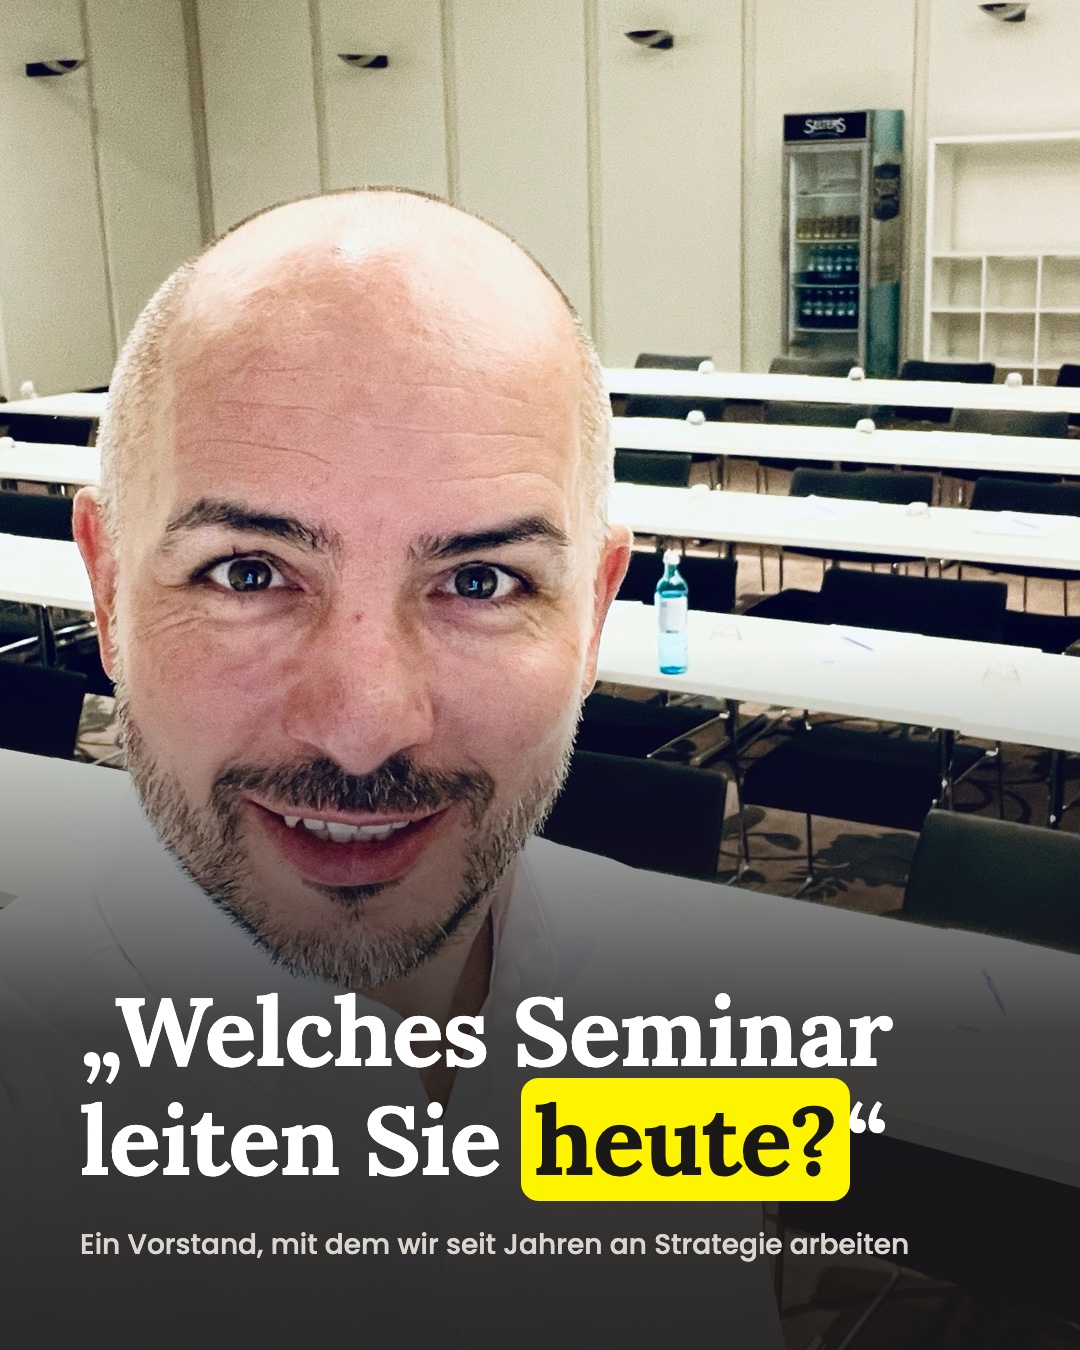
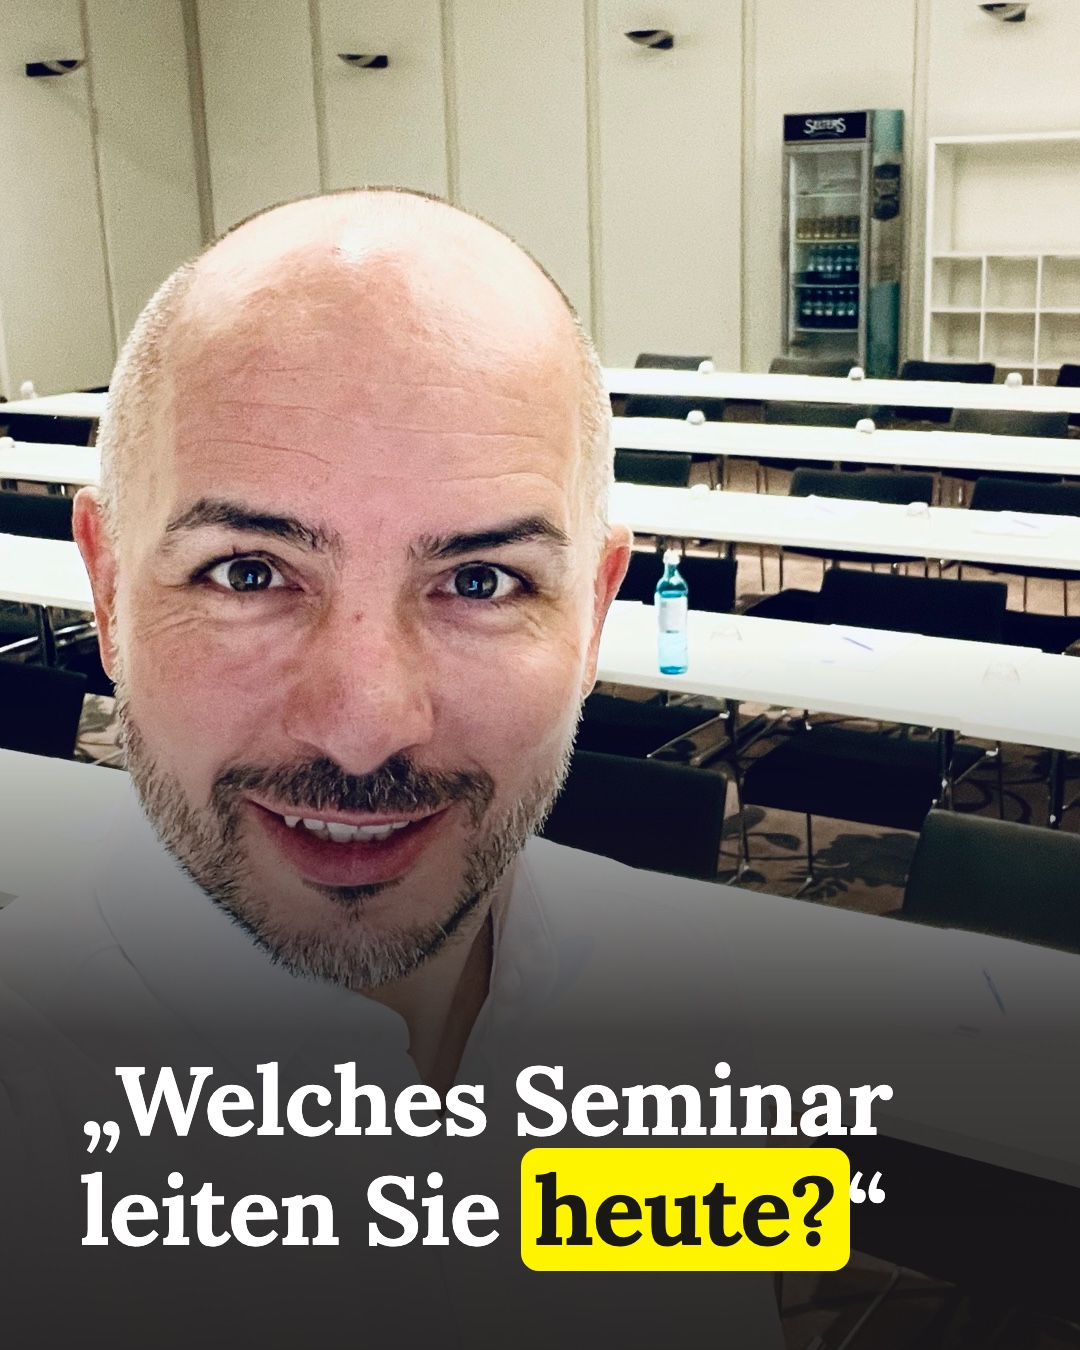
Posting 09.11.: Subheadline im Bild gelöscht

Changed region(s): [[0.0611, 0.7156, 0.8556, 0.9644]]

diff --git a/werkzeuge/medienkonzept/postings-vorlage.html b/werkzeuge/medienkonzept/postings-vorlage.html
@@ -941,7 +941,7 @@ html, body { width:1080px; background:#fff; }
     <p style="padding-bottom:14px;font:700 60px/1.12 Lora,Georgia,serif;color:#fff">konkrete Highlights gefunden.</p></div>
   <p class="namezeile">Daniel Ströbel</p></section>
 
-<section class="p vollbild" id="rp30"><img src="/assets/projekte/medienkonzept/foto-seminar-selfie.jpg" alt="" style="object-position:32% 50%;"><div class="verlauf" style="height:52%"></div><div class="unten"><p class="satz" style="font-size:96px">„Welches Seminar leiten Sie <span class="hl" style="color:#1a1817">heute?</span>“</p><p class="wer">Ein Vorstand, mit dem wir seit Jahren an Strategie arbeiten</p></div></section>
+<section class="p vollbild" id="rp30"><img src="/assets/projekte/medienkonzept/foto-seminar-selfie.jpg" alt="" style="object-position:32% 50%;"><div class="verlauf" style="height:52%"></div><div class="unten"><p class="satz" style="font-size:96px">„Welches Seminar leiten Sie <span class="hl" style="color:#1a1817">heute?</span>“</p></div></section>
 
 <section class="p" id="rp31" style="background:#e9e7e3;padding:70px 56px 0">
 <div style="border-radius:22px;background:#fff;box-shadow:0 24px 60px rgba(0,0,0,.12);overflow:hidden">

diff --git a/werkzeuge/medienkonzept/kw46_47_bilder.py b/werkzeuge/medienkonzept/kw46_47_bilder.py
@@ -121,7 +121,7 @@ def sektionen(NAME, vb, SYS):
 
     return [
         foto("rp30", "foto-seminar-selfie.jpg", "32% 50%", "„Welches Seminar leiten Sie <span class=\"hl\" style=\"color:#1a1817\">heute?</span>“",
-             "Ein Vorstand, mit dem wir seit Jahren an Strategie arbeiten", 96),
+             "", 96),
         rp31, rp32,
         foto("rp33", "foto-skizze.jpg", "50% 35%", "„Hat dein Papa wieder einen <span class=\"hl\" style=\"color:#1a1817\">coolen&nbsp;Trick?</span>“",
              "Die Freundinnen meiner Tochter", 90),
